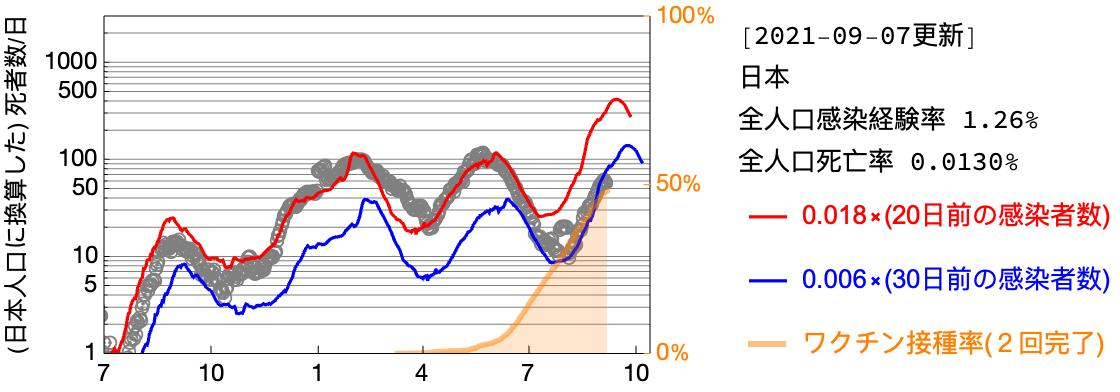
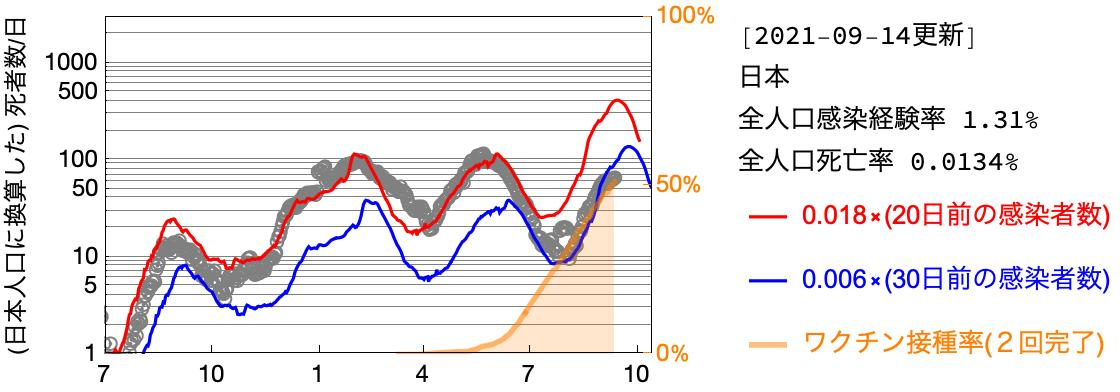
.

diff --git a/_site/COVID19/2021/09/03/covid19-Japan.html b/_site/COVID19/2021/09/03/covid19-Japan.html
@@ -7,15 +7,15 @@
 <meta name="generator" content="Jekyll v3.8.7" />
 <meta property="og:title" content="Population ratio of COVID death by age in Japan" />
 <meta property="og:locale" content="en_US" />
-<meta name="description" content="[2021/09/09更新]" />
-<meta property="og:description" content="[2021/09/09更新]" />
+<meta name="description" content="[2021/09/18更新]" />
+<meta property="og:description" content="[2021/09/18更新]" />
 <link rel="canonical" href="http://localhost:4000/covid19/2021/09/03/covid19-Japan.html" />
 <meta property="og:url" content="http://localhost:4000/covid19/2021/09/03/covid19-Japan.html" />
 <meta property="og:site_name" content="Computational Soft and Biological Matter group" />
 <meta property="og:type" content="article" />
 <meta property="article:published_time" content="2021-09-03T00:00:00+08:00" />
 <script type="application/ld+json">
-{"description":"[2021/09/09更新]","headline":"Population ratio of COVID death by age in Japan","dateModified":"2021-09-03T00:00:00+08:00","datePublished":"2021-09-03T00:00:00+08:00","url":"http://localhost:4000/covid19/2021/09/03/covid19-Japan.html","mainEntityOfPage":{"@type":"WebPage","@id":"http://localhost:4000/covid19/2021/09/03/covid19-Japan.html"},"@type":"BlogPosting","@context":"https://schema.org"}</script>
+{"description":"[2021/09/18更新]","headline":"Population ratio of COVID death by age in Japan","dateModified":"2021-09-03T00:00:00+08:00","datePublished":"2021-09-03T00:00:00+08:00","url":"http://localhost:4000/covid19/2021/09/03/covid19-Japan.html","mainEntityOfPage":{"@type":"WebPage","@id":"http://localhost:4000/covid19/2021/09/03/covid19-Japan.html"},"@type":"BlogPosting","@context":"https://schema.org"}</script>
 <!-- End Jekyll SEO tag -->
 <link rel="stylesheet" href="/assets/main.css"><link type="application/atom+xml" rel="alternate" href="http://localhost:4000/feed.xml" title="Computational Soft and Biological Matter group" /></head>
 <body><header class="site-header" role="banner">
@@ -45,7 +45,7 @@
   </header>
 
   <div class="post-content e-content" itemprop="articleBody">
-    <p><strong>[2021/09/09更新]</strong></p>
+    <p><strong>[2021/09/18更新]</strong></p>
 
 <p><strong>ワクチン接種の進行度と死者数の年代毎の割合</strong></p>
 

diff --git a/_posts/2021-09-03-covid19-Japan.md b/_posts/2021-09-03-covid19-Japan.md
@@ -5,7 +5,7 @@ date:   2021-09-3
 categories: covid19
 ---
 
-**[2021/09/09更新]**
+**[2021/09/18更新]**
 
 **ワクチン接種の進行度と死者数の年代毎の割合**
 
